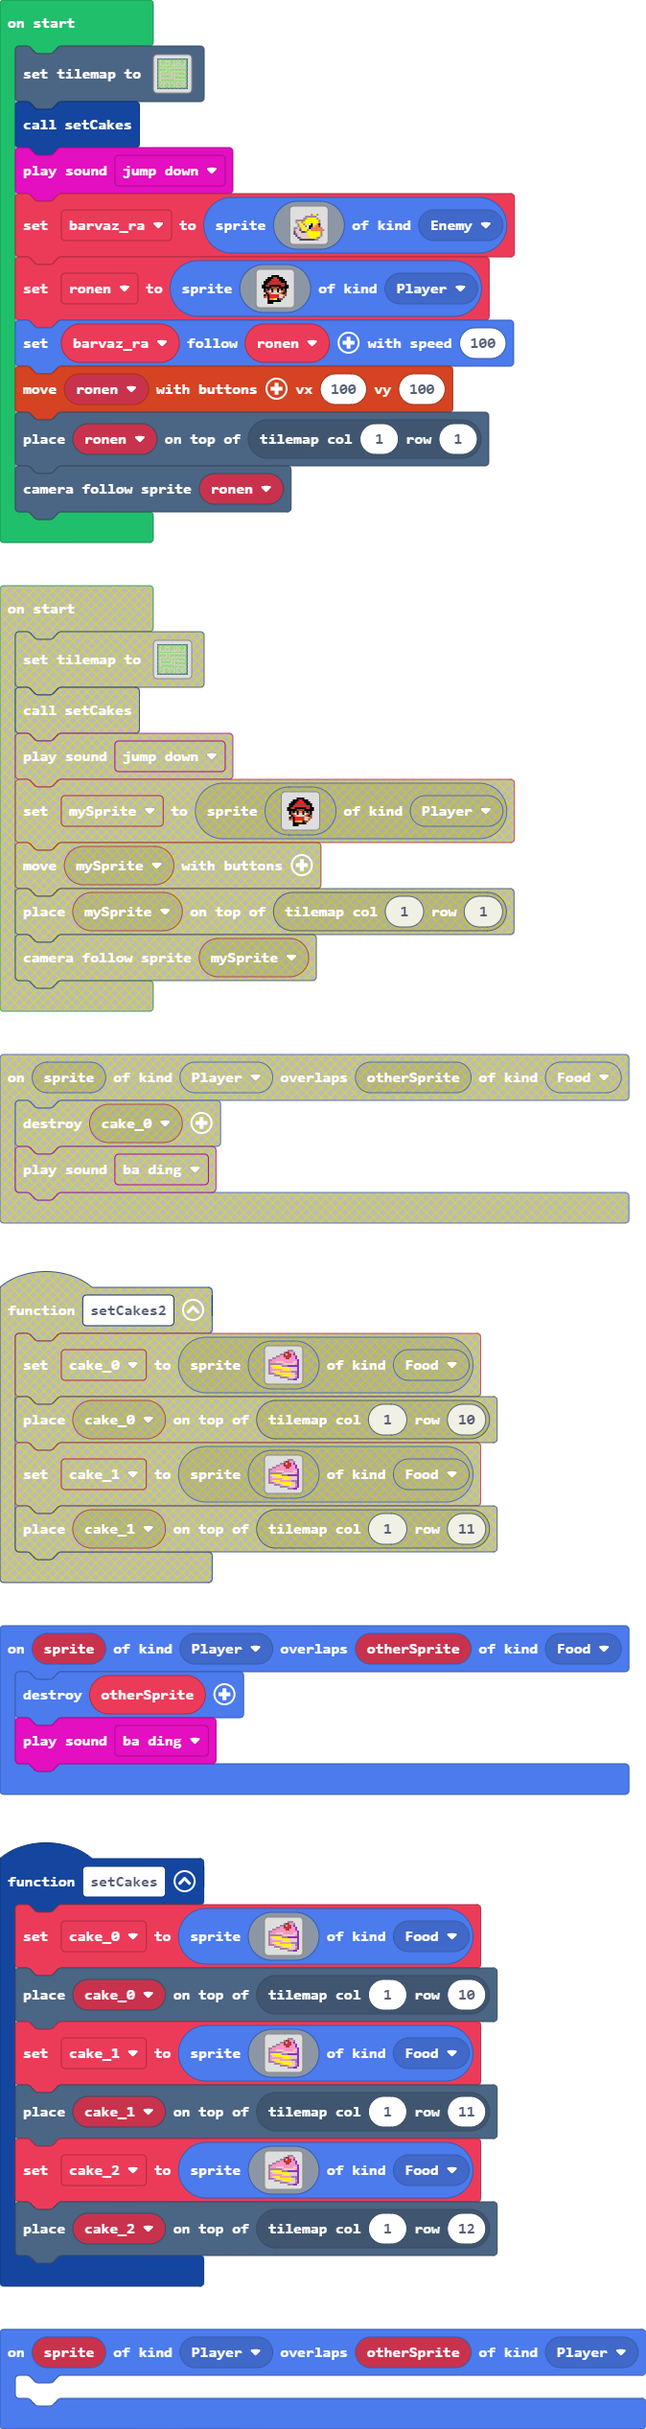
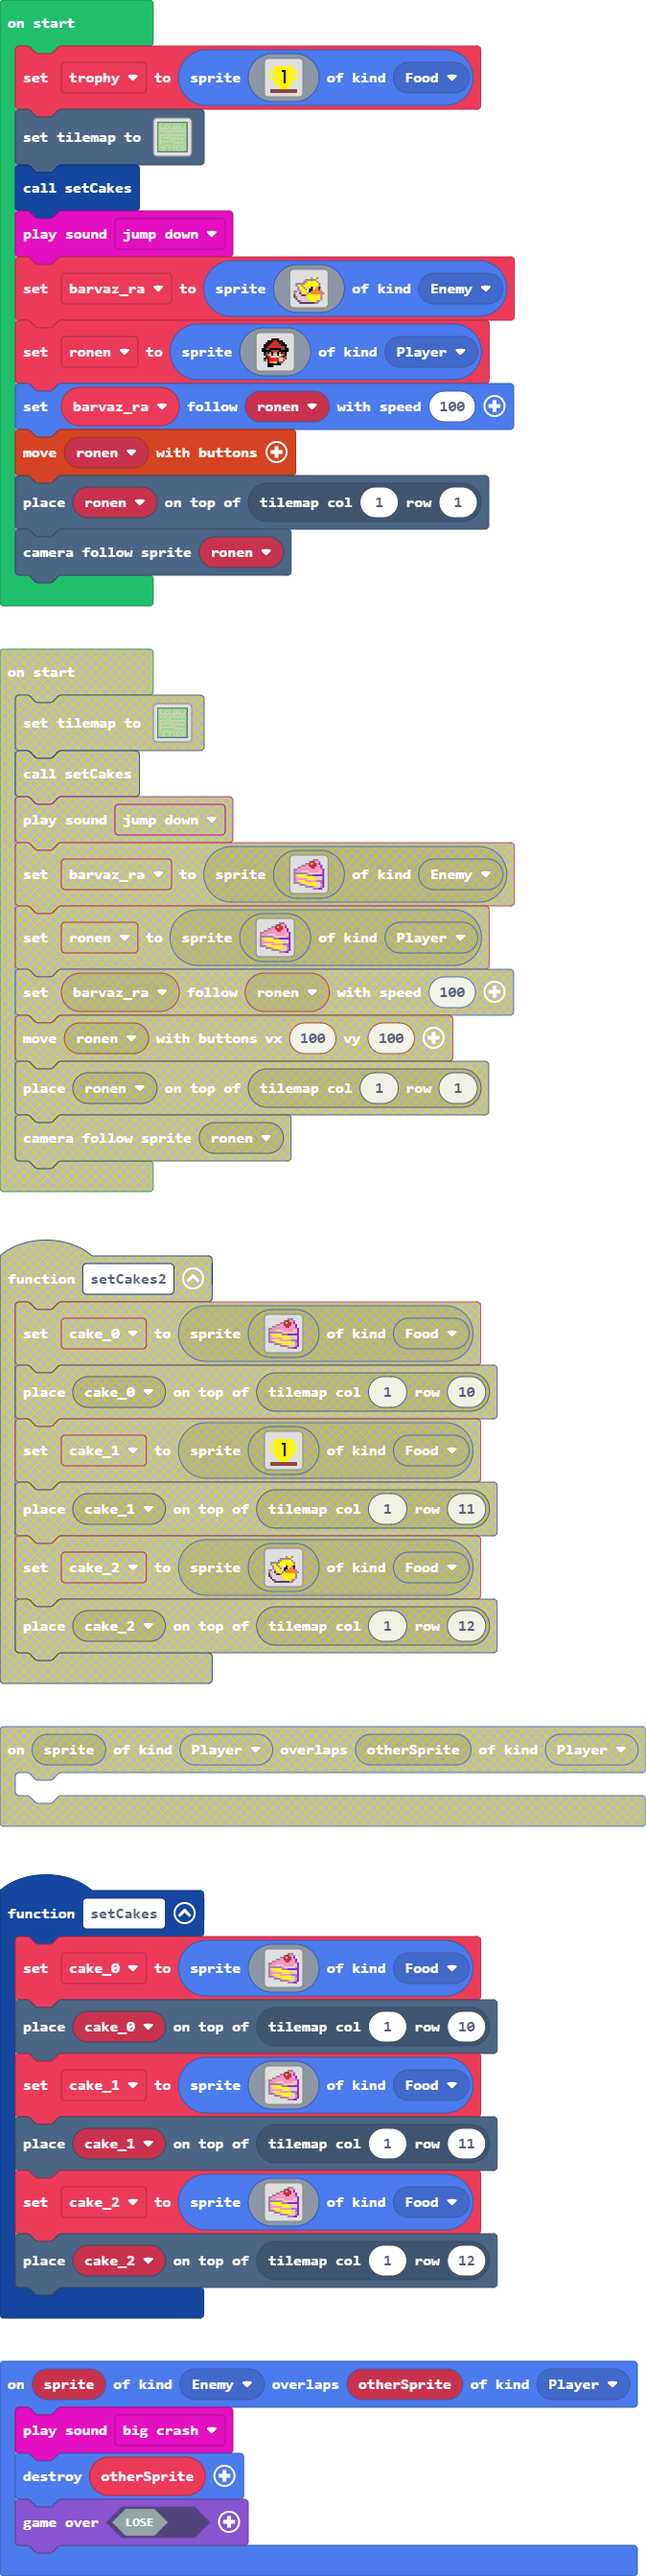
Update pxt.json, main.blocks, main.ts, images.g.jres, images.g.ts

diff --git a/images.g.ts b/images.g.ts
@@ -3,95 +3,23 @@ namespace myImages {
 
     helpers._registerFactory("image", function(name: string) {
         switch(helpers.stringTrim(name)) {
-            case "image6":return img`
-. . . . . . . . . . b b b . . . 
-. . . . . . . . b e e 3 3 b . . 
-. . . . . . b b e 3 2 e 3 a . . 
-. . . . b b 3 3 e 2 2 e 3 3 a . 
-. . b b 3 3 3 3 3 e e 3 3 3 a . 
-b b 3 3 3 3 3 3 3 3 3 3 3 3 3 a 
-b 3 3 3 d d d d 3 3 3 3 3 d d a 
-b b b b b b b 3 d d d d d d 3 a 
-b d 5 5 5 5 d b b b a a a a a a 
-b 3 d d 5 5 5 5 5 5 5 d d d d a 
-b 3 3 3 3 3 3 d 5 5 5 d d d d a 
-b 3 d 5 5 5 3 3 3 3 3 3 b b b a 
-b b b 3 d 5 5 5 5 5 5 5 d d b a 
-. . . b b b 3 d 5 5 5 5 d d 3 a 
-. . . . . . b b b b 3 d d d b a 
-. . . . . . . . . . b b b a a . 
-`;
-            case "image7":return img`
-. . . . . . . . . . b b b . . . 
-. . . . . . . . b e e 3 3 b . . 
-. . . . . . b b e 3 2 e 3 a . . 
-. . . . b b 3 3 e 2 2 e 3 3 a . 
-. . b b 3 3 3 3 3 e e 3 3 3 a . 
-b b 3 3 3 3 3 3 3 3 3 3 3 3 3 a 
-b 3 3 3 d d d d 3 3 3 3 3 d d a 
-b b b b b b b 3 d d d d d d 3 a 
-b d 5 5 5 5 d b b b a a a a a a 
-b 3 d d 5 5 5 5 5 5 5 d d d d a 
-b 3 3 3 3 3 3 d 5 5 5 d d d d a 
-b 3 d 5 5 5 3 3 3 3 3 3 b b b a 
-b b b 3 d 5 5 5 5 5 5 5 d d b a 
-. . . b b b 3 d 5 5 5 5 d d 3 a 
-. . . . . . b b b b 3 d d d b a 
-. . . . . . . . . . b b b a a . 
-`;
-            case "image8":return img`
-. . . . . . . . . . . . . . . . 
-. . . . . . f f f f . . . . . . 
-. . . . f f f 2 2 f f f . . . . 
-. . . f f f 2 2 2 2 f f f . . . 
-. . f f f e e e e e e f f f . . 
-. . f f e 2 2 2 2 2 2 e e f . . 
-. f f e 2 f f f f f f 2 e f f . 
-. f f f f f e e e e f f f f f . 
-. . f e f b f 4 4 f b f e f . . 
-. . f e 4 1 f d d f 1 4 e f . . 
-. . . f e 4 d d d d 4 e f e . . 
-. . f e f 2 2 2 2 e d d 4 e . . 
-. . e 4 f 2 2 2 2 e d d e . . . 
-. . . . f 4 4 5 5 f e e . . . . 
-. . . . f f f f f f f . . . . . 
-. . . . f f f . . . . . . . . . 
-`;
-            case "image10":return img`
-. . . . . . . . . . b b b . . . 
-. . . . . . . . b e e 3 3 b . . 
-. . . . . . b b e 3 2 e 3 a . . 
-. . . . b b 3 3 e 2 2 e 3 3 a . 
-. . b b 3 3 3 3 3 e e 3 3 3 a . 
-b b 3 3 3 3 3 3 3 3 3 3 3 3 3 a 
-b 3 3 3 d d d d 3 3 3 3 3 d d a 
-b b b b b b b 3 d d d d d d 3 a 
-b d 5 5 5 5 d b b b a a a a a a 
-b 3 d d 5 5 5 5 5 5 5 d d d d a 
-b 3 3 3 3 3 3 d 5 5 5 d d d d a 
-b 3 d 5 5 5 3 3 3 3 3 3 b b b a 
-b b b 3 d 5 5 5 5 5 5 5 d d b a 
-. . . b b b 3 d 5 5 5 5 d d 3 a 
-. . . . . . b b b b 3 d d d b a 
-. . . . . . . . . . b b b a a . 
-`;
             case "image1":return img`
-. . . . . . . . . . . . . . . . 
-. . . . . . . . . . . . . . . . 
-. . . . . . . . . b 5 5 b . . . 
-. . . . . . b b b b b b . . . . 
-. . . . . b b 5 5 5 5 5 b . . . 
-. b b b b b 5 5 5 5 5 5 5 b . . 
-. b d 5 b 5 5 5 5 5 5 5 5 b . . 
-. . b 5 5 b 5 d 1 f 5 d 4 f . . 
-. . b d 5 5 b 1 f f 5 4 4 c . . 
-b b d b 5 5 5 d f b 4 4 4 4 b . 
-b d d c d 5 5 b 5 4 4 4 4 4 4 b 
-c d d d c c b 5 5 5 5 5 5 5 b . 
-c b d d d d d 5 5 5 5 5 5 5 b . 
-. c d d d d d d 5 5 5 5 5 d b . 
-. . c b d d d d d 5 5 5 b b . . 
-. . . c c c c c c c c b b . . . 
+. . . . . . . . . . b b b . . . 
+. . . . . . . . b e e 3 3 b . . 
+. . . . . . b b e 3 2 e 3 a . . 
+. . . . b b 3 3 e 2 2 e 3 3 a . 
+. . b b 3 3 3 3 3 e e 3 3 3 a . 
+b b 3 3 3 3 3 3 3 3 3 3 3 3 3 a 
+b 3 3 3 d d d d 3 3 3 3 3 d d a 
+b b b b b b b 3 d d d d d d 3 a 
+b d 5 5 5 5 d b b b a a a a a a 
+b 3 d d 5 5 5 5 5 5 5 d d d d a 
+b 3 3 3 3 3 3 d 5 5 5 d d d d a 
+b 3 d 5 5 5 3 3 3 3 3 3 b b b a 
+b b b 3 d 5 5 5 5 5 5 5 d d b a 
+. . . b b b 3 d 5 5 5 5 d d 3 a 
+. . . . . . b b b b 3 d d d b a 
+. . . . . . . . . . b b b a a . 
 `;
             case "image2":return img`
 . . . . . . . . . . b b b . . . 
@@ -112,6 +40,24 @@ b b b 3 d 5 5 5 5 5 5 5 d d b a
 . . . . . . . . . . b b b a a . 
 `;
             case "image3":return img`
+. . . . . . . . . . . . . . . . 
+. . . . . . . . . . . . . . . . 
+. . . . . . . . . b 5 5 b . . . 
+. . . . . . b b b b b b . . . . 
+. . . . . b b 5 5 5 5 5 b . . . 
+. b b b b b 5 5 5 5 5 5 5 b . . 
+. b d 5 b 5 5 5 5 5 5 5 5 b . . 
+. . b 5 5 b 5 d 1 f 5 d 4 f . . 
+. . b d 5 5 b 1 f f 5 4 4 c . . 
+b b d b 5 5 5 d f b 4 4 4 4 b . 
+b d d c d 5 5 b 5 4 4 4 4 4 4 b 
+c d d d c c b 5 5 5 5 5 5 5 b . 
+c b d d d d d 5 5 5 5 5 5 5 b . 
+. c d d d d d d 5 5 5 5 5 d b . 
+. . c b d d d d d 5 5 5 b b . . 
+. . . c c c c c c c c b b . . . 
+`;
+            case "image4":return img`
 . . . . . . . . . . b b b . . . 
 . . . . . . . . b e e 3 3 b . . 
 . . . . . . b b e 3 2 e 3 a . . 
@@ -129,7 +75,7 @@ b b b 3 d 5 5 5 5 5 5 5 d d b a
 . . . . . . b b b b 3 d d d b a 
 . . . . . . . . . . b b b a a . 
 `;
-            case "image4":return img`
+            case "image5":return img`
 . . . . . . . . . . . . . . . . 
 . . . . . . f f f f . . . . . . 
 . . . . f f f 2 2 f f f . . . . 
@@ -147,7 +93,43 @@ b b b 3 d 5 5 5 5 5 5 5 d d b a
 . . . . f f f f f f f . . . . . 
 . . . . f f f . . . . . . . . . 
 `;
-            case "image5":return img`
+            case "image6":return img`
+. . . . . . . . . . b b b . . . 
+. . . . . . . . b e e 3 3 b . . 
+. . . . . . b b e 3 2 e 3 a . . 
+. . . . b b 3 3 e 2 2 e 3 3 a . 
+. . b b 3 3 3 3 3 e e 3 3 3 a . 
+b b 3 3 3 3 3 3 3 3 3 3 3 3 3 a 
+b 3 3 3 d d d d 3 3 3 3 3 d d a 
+b b b b b b b 3 d d d d d d 3 a 
+b d 5 5 5 5 d b b b a a a a a a 
+b 3 d d 5 5 5 5 5 5 5 d d d d a 
+b 3 3 3 3 3 3 d 5 5 5 d d d d a 
+b 3 d 5 5 5 3 3 3 3 3 3 b b b a 
+b b b 3 d 5 5 5 5 5 5 5 d d b a 
+. . . b b b 3 d 5 5 5 5 d d 3 a 
+. . . . . . b b b b 3 d d d b a 
+. . . . . . . . . . b b b a a . 
+`;
+            case "image7":return img`
+. . . . . . . . . . . . . . . . 
+. . . . . . . . . . . . . . . . 
+. . . 5 5 5 5 5 5 5 5 5 5 . . . 
+. . . 5 5 5 5 5 5 5 5 5 5 . . . 
+. 5 5 5 5 5 5 f f 5 5 5 5 5 5 . 
+. 5 . 5 5 5 5 5 f 5 5 5 5 . 5 . 
+. 5 . 5 5 5 5 5 f 5 5 5 5 . 5 . 
+. 5 . 5 5 5 5 5 f 5 5 5 5 . 5 . 
+. 5 5 5 5 5 5 5 f 5 5 5 5 5 5 . 
+. . . 5 5 5 5 5 f 5 5 5 5 . . . 
+. . . 5 5 5 5 5 f 5 5 5 5 . . . 
+. . . . 5 5 5 5 5 5 5 5 . . . . 
+. . . . . 5 5 5 5 5 5 . . . . . 
+. . . . . . 5 5 5 5 . . . . . . 
+. e e e e e e e e e e e e e e . 
+. e e e e e e e e e e e e e e . 
+`;
+            case "image8":return img`
 . . . . . . . . . . b b b . . . 
 . . . . . . . . b e e 3 3 b . . 
 . . . . . . b b e 3 2 e 3 a . . 
@@ -183,7 +165,7 @@ b b b 3 d 5 5 5 5 5 5 5 d d b a
 . . . . . . b b b b 3 d d d b a 
 . . . . . . . . . . b b b a a . 
 `;
-            case "image11":return img`
+            case "image10":return img`
 . . . . . . . . . . . . . . . . 
 . . . . . . . . . . . . . . . . 
 . . . . . . . . . b 5 5 b . . . 
@@ -201,25 +183,7 @@ c b d d d d d 5 5 5 5 5 5 5 b .
 . . c b d d d d d 5 5 5 b b . . 
 . . . c c c c c c c c b b . . . 
 `;
-            case "image12":return img`
-. . . . . . . . . . b b b . . . 
-. . . . . . . . b e e 3 3 b . . 
-. . . . . . b b e 3 2 e 3 a . . 
-. . . . b b 3 3 e 2 2 e 3 3 a . 
-. . b b 3 3 3 3 3 e e 3 3 3 a . 
-b b 3 3 3 3 3 3 3 3 3 3 3 3 3 a 
-b 3 3 3 d d d d 3 3 3 3 3 d d a 
-b b b b b b b 3 d d d d d d 3 a 
-b d 5 5 5 5 d b b b a a a a a a 
-b 3 d d 5 5 5 5 5 5 5 d d d d a 
-b 3 3 3 3 3 3 d 5 5 5 d d d d a 
-b 3 d 5 5 5 3 3 3 3 3 3 b b b a 
-b b b 3 d 5 5 5 5 5 5 5 d d b a 
-. . . b b b 3 d 5 5 5 5 d d 3 a 
-. . . . . . b b b b 3 d d d b a 
-. . . . . . . . . . b b b a a . 
-`;
-            case "image13":return img`
+            case "image11":return img`
 . . . . . . . . . . . . . . . . 
 . . . . . . f f f f . . . . . . 
 . . . . f f f 2 2 f f f . . . . 

diff --git a/main.ts b/main.ts
@@ -57,8 +57,10 @@ function setCakes () {
         `, SpriteKind.Food)
     tiles.placeOnTile(cake_2, tiles.getTileLocation(1, 12))
 }
-sprites.onOverlap(SpriteKind.Player, SpriteKind.Player, function (sprite, otherSprite) {
-	
+sprites.onOverlap(SpriteKind.Enemy, SpriteKind.Player, function (sprite, otherSprite) {
+    music.bigCrash.play()
+    otherSprite.destroy()
+    game.over(false)
 })
 sprites.onOverlap(SpriteKind.Player, SpriteKind.Food, function (sprite, otherSprite) {
     otherSprite.destroy()
@@ -67,6 +69,24 @@ sprites.onOverlap(SpriteKind.Player, SpriteKind.Food, function (sprite, otherSpr
 let cake_2: Sprite = null
 let cake_1: Sprite = null
 let cake_0: Sprite = null
+let trophy = sprites.create(img`
+    . . . . . . . . . . . . . . . . 
+    . . . . . . . . . . . . . . . . 
+    . . . 5 5 5 5 5 5 5 5 5 5 . . . 
+    . . . 5 5 5 5 5 5 5 5 5 5 . . . 
+    . 5 5 5 5 5 5 f f 5 5 5 5 5 5 . 
+    . 5 . 5 5 5 5 5 f 5 5 5 5 . 5 . 
+    . 5 . 5 5 5 5 5 f 5 5 5 5 . 5 . 
+    . 5 . 5 5 5 5 5 f 5 5 5 5 . 5 . 
+    . 5 5 5 5 5 5 5 f 5 5 5 5 5 5 . 
+    . . . 5 5 5 5 5 f 5 5 5 5 . . . 
+    . . . 5 5 5 5 5 f 5 5 5 5 . . . 
+    . . . . 5 5 5 5 5 5 5 5 . . . . 
+    . . . . . 5 5 5 5 5 5 . . . . . 
+    . . . . . . 5 5 5 5 . . . . . . 
+    . e e e e e e e e e e e e e e . 
+    . e e e e e e e e e e e e e e . 
+    `, SpriteKind.Food)
 tiles.setTilemap(tilemap`level1`)
 setCakes()
 music.jumpDown.play()
